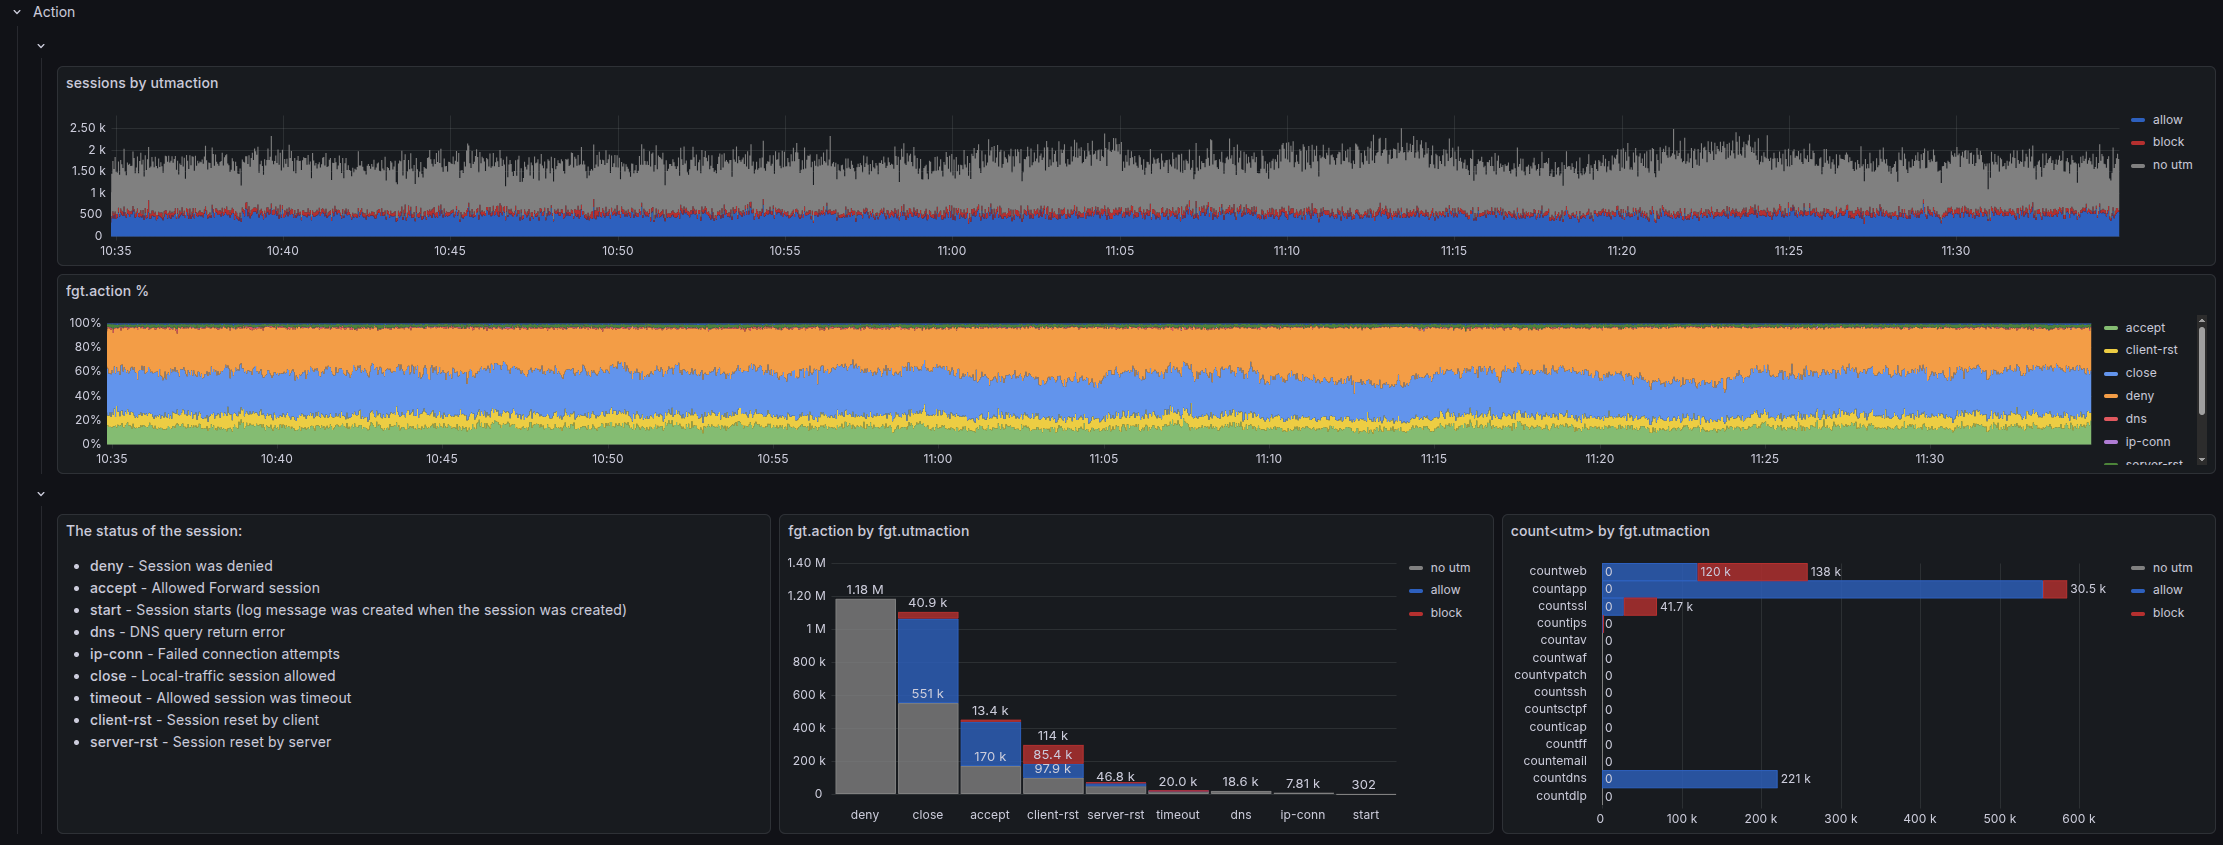
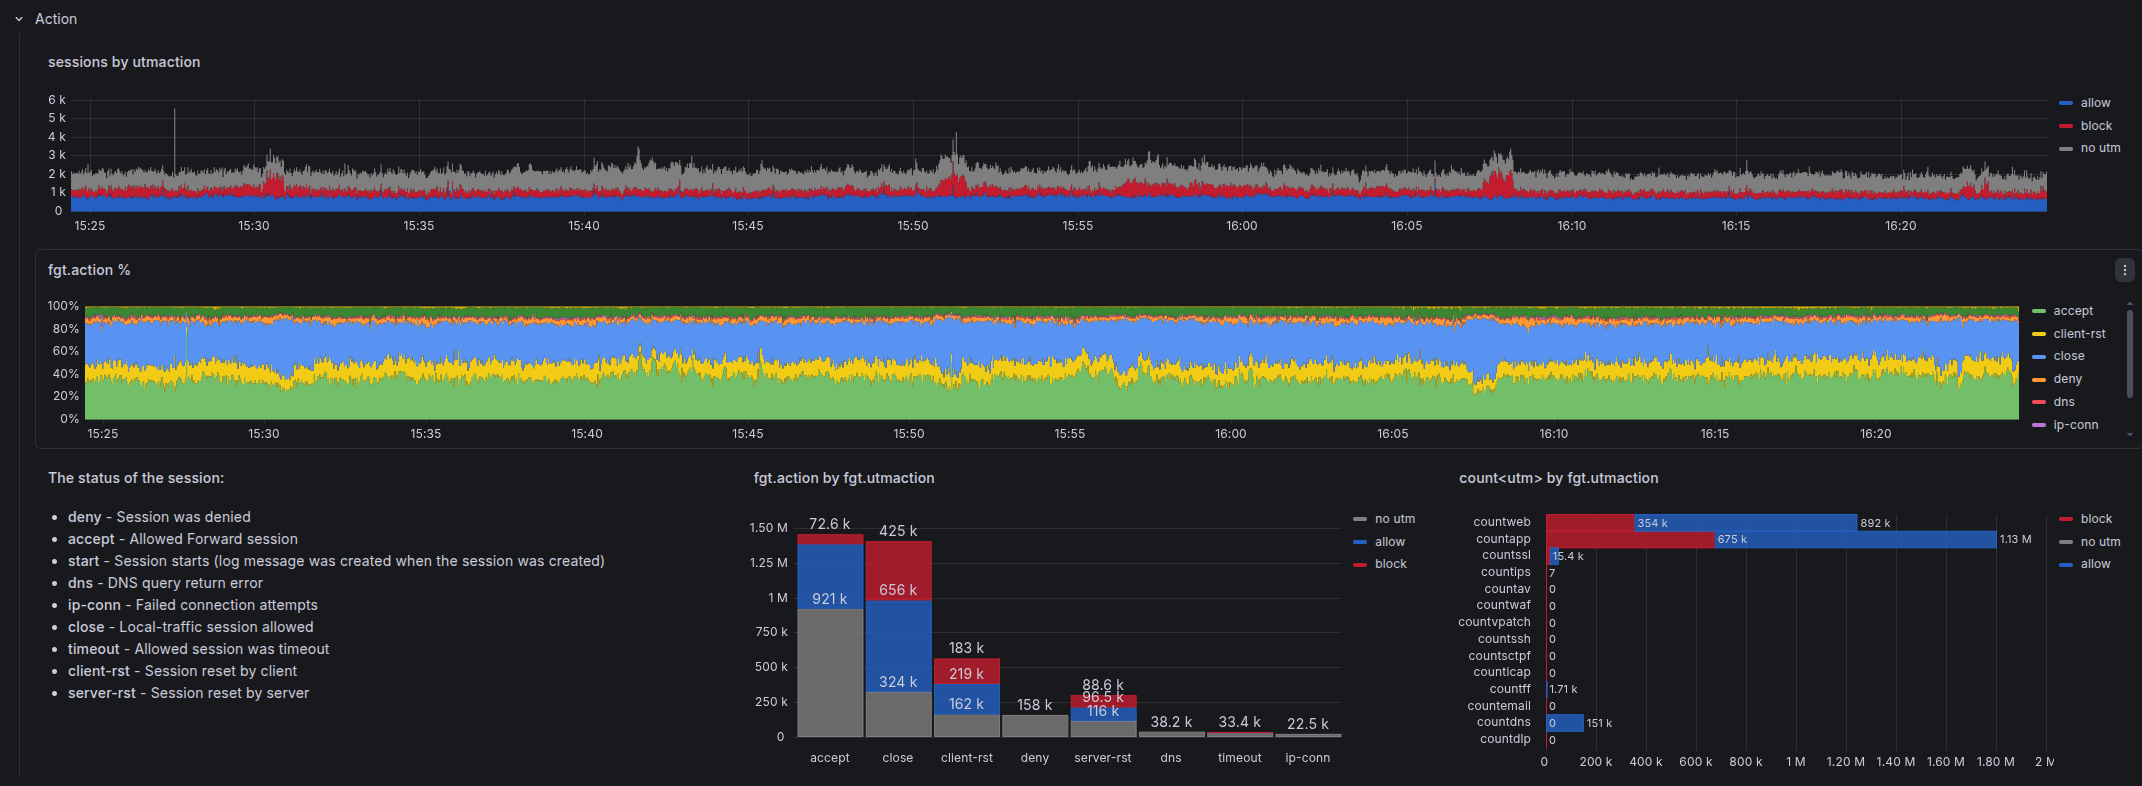
include images in dashboard guide

diff --git a/docs/src/dashboards/canvas.md b/docs/src/dashboards/canvas.md
@@ -20,19 +20,21 @@ The rest is just details.
 <div class="carousel-wrapper">
   <div class="main-image-container">
     <img id="mainImage" src="../../assets/dashboards/making_of/draft1.jpeg" alt="Main draft">
-    <button class="nav-btn prev" onclick="navigate(-1)">❮</button>
-    <button class="nav-btn next" onclick="navigate(1)">❯</button>
   </div>
-  
-  <div class="thumbnails">
-    <img src="../../assets/dashboards/making_of/draft1.jpeg" class="thumb active" onclick="showImage(0)">
-    <img src="../../assets/dashboards/making_of/draft2.jpeg" class="thumb" onclick="showImage(1)">
-    <img src="../../assets/dashboards/making_of/draft3.jpeg" class="thumb" onclick="showImage(2)">
-    <img src="../../assets/dashboards/making_of/draft4.jpeg" class="thumb" onclick="showImage(3)">
-    <img src="../../assets/dashboards/making_of/draft5.jpeg" class="thumb" onclick="showImage(4)">
-    <img src="../../assets/dashboards/making_of/draft6.jpeg" class="thumb" onclick="showImage(5)">
-    <img src="../../assets/dashboards/making_of/draft7.jpeg" class="thumb" onclick="showImage(6)">
-    <img src="../../assets/dashboards/making_of/draft8.jpeg" class="thumb" onclick="showImage(7)">
+
+  <div class="filmstrip">
+    <button class="nav-btn" onclick="navigate(-1)">❮</button>
+    <div class="thumb-track" id="thumbTrack">
+      <img src="../../assets/dashboards/making_of/draft1.jpeg" class="thumb active" onclick="showImage(0)">
+      <img src="../../assets/dashboards/making_of/draft2.jpeg" class="thumb" onclick="showImage(1)">
+      <img src="../../assets/dashboards/making_of/draft3.jpeg" class="thumb" onclick="showImage(2)">
+      <img src="../../assets/dashboards/making_of/draft4.jpeg" class="thumb" onclick="showImage(3)">
+      <img src="../../assets/dashboards/making_of/draft5.jpeg" class="thumb" onclick="showImage(4)">
+      <img src="../../assets/dashboards/making_of/draft6.jpeg" class="thumb" onclick="showImage(5)">
+      <img src="../../assets/dashboards/making_of/draft7.jpeg" class="thumb" onclick="showImage(6)">
+      <img src="../../assets/dashboards/making_of/draft8.jpeg" class="thumb" onclick="showImage(7)">
+    </div>
+    <button class="nav-btn" onclick="navigate(1)">❯</button>
   </div>
 </div>
 
@@ -43,7 +45,6 @@ The rest is just details.
 }
 
 .main-image-container {
-  position: relative;
   width: 100%;
   margin-bottom: 1rem;
 }
@@ -55,10 +56,14 @@ The rest is just details.
   border-radius: 8px;
 }
 
+.filmstrip {
+  display: flex;
+  align-items: center;
+  gap: 8px;
+}
+
 .nav-btn {
-  position: absolute;
-  top: 50%;
-  transform: translateY(-50%);
+  flex-shrink: 0;
   background: rgba(0, 0, 0, 0.6);
   color: white;
   border: none;
@@ -73,23 +78,23 @@ The rest is just details.
   background: rgba(0, 0, 0, 0.9);
 }
 
-.prev { left: 10px; }
-.next { right: 10px; }
-
-.thumbnails {
-  display: grid;
-  grid-template-columns: repeat(auto-fit, minmax(100px, 1fr));
+.thumb-track {
+  flex: 1;
+  overflow: hidden;
+  display: flex;
   gap: 10px;
+  scroll-behavior: smooth;
 }
 
 .thumb {
-  width: 100%;
-  height: 80px;
+  flex-shrink: 0;
+  width: 100px;
+  height: 70px;
   object-fit: cover;
   cursor: pointer;
   border-radius: 4px;
   opacity: 0.6;
-  transition: opacity 0.3s, transform 0.2s;
+  transition: opacity 0.3s, transform 0.2s, border-color 0.2s;
   border: 3px solid transparent;
 }
 
@@ -121,20 +126,22 @@ let currentIndex = 0;
 function showImage(index) {
   currentIndex = index;
   document.getElementById('mainImage').src = images[index];
-  
-  document.querySelectorAll('.thumb').forEach((thumb, i) => {
-    thumb.classList.toggle('active', i === index);
-  });
+
+  const thumbs = document.querySelectorAll('.thumb');
+  thumbs.forEach((thumb, i) => thumb.classList.toggle('active', i === index));
+
+  const track = document.getElementById('thumbTrack');
+  const active = thumbs[index];
+  if (active) {
+    const scrollTarget = active.offsetLeft - (track.offsetWidth / 2) + (active.offsetWidth / 2);
+    track.scrollTo({ left: scrollTarget, behavior: 'smooth' });
+  }
 }
 
 function navigate(direction) {
-  currentIndex += direction;
-  if (currentIndex < 0) currentIndex = images.length - 1;
-  if (currentIndex >= images.length) currentIndex = 0;
-  showImage(currentIndex);
+  showImage((currentIndex + direction + images.length) % images.length);
 }
 
-// Keyboard navigation
 document.addEventListener('keydown', (e) => {
   if (e.key === 'ArrowLeft') navigate(-1);
   if (e.key === 'ArrowRight') navigate(1);

diff --git a/docs/src/dashboards/guide/index.md b/docs/src/dashboards/guide/index.md
@@ -26,7 +26,7 @@ Both vendors share the same set of dashboards, each with a distinct purpose:
 
 Each dashboard includes a navigation bar that links to related dashboards within the same vendor dataset. Navigation links are **tag-based** — each link resolves dynamically to all dashboards sharing a specific set of Grafana tags, so new dashboards added with the right tags appear automatically.
 
-![Navigation](../../assets/dashboards/guide/[Grafana] Fortigate Navigation Filters.png)
+![Navigation](../../assets/dashboards/guide/[Grafana] Navigation.png)
 
 | Nav Link | FortiGate dashboards | PAN-OS dashboards |
 |----------|---------------------|-------------------|
@@ -36,6 +36,8 @@ Each dashboard includes a navigation bar that links to related dashboards within
 | Event | System [FortiOS], SSL VPN [FortiOS] | — |
 
 ## Variables & Filters
+
+![Navigation](../../assets/dashboards/guide/[Grafana] Filters.png)
 
 All dashboard filters are exposed at the top of the page, allowing you to slice and dice the data as needed. Variables are ordered hierarchically — selecting a firewall narrows down vdom/vsys options, which narrows down subtypes, and so on.
 
@@ -65,11 +67,12 @@ datasource
 | `action` | `fgt.action` | `panos.action` | Populated from data |
 | `Logsql` | — | — | Raw [LogsQL](https://docs.victoriametrics.com/victorialogs/logsql/) injection — applied after all other filters |
 
+
 !!! note "FortiGate extras"
     FortiGate **Traffic** dashboards have two additional variables not present in PAN-OS:
 
     - `policytype` (filters by `fgt.policytype`)
-    - `crscore`, a toggle unique to the **UTM** dashboard that applies a risk score threshold filter.
+    - `crscore`, a toggle that applies a risk score threshold filter.
 
 !!! tip "Advanced Filtering"
     The `Logsql` variable lets you inject raw LogsQL into every query. Use it for complex filters that aren't covered by the standard variables, such as:
@@ -78,6 +81,8 @@ datasource
     ```
 
 ## Base Query Shell
+
+![Base Query Shell](../../assets/dashboards/guide/[Grafana] Filters & Base Query.png)
 
 All panels in a dashboard share a common base query structure. It always has three parts:
 
@@ -117,6 +122,8 @@ _stream:{<stream filters>}
 
 ### Top-level Tabs: Direction
 
+![Header](../../assets/dashboards/guide/[Grafana] Fortigate Tabs.png)
+
 We segment the analysis by **`network.direction`** — tabs across the top represent different traffic directions:
 
 - **Outbound** — Traffic initiated from internal networks going out
@@ -125,8 +132,6 @@ We segment the analysis by **`network.direction`** — tabs across the top repre
 - **External** — Traffic between external networks (rare but possible)
 
 The segmentation matters: an attack originating from the internet is completely different from an internal host generating suspicious traffic.
-
-![Header](../../assets/dashboards/guide/[Grafana] Fortigate Header.png)
 
 ### Sub Tabs — Traffic Dashboard: Metrics
 
@@ -144,6 +149,14 @@ The **UTM** (FortiGate) and **Threat** (Palo Alto) dashboards split by **subtype
 
 - A **summary** tab — aggregated view across all subtypes. *Only Palo Alto*
 - A **dynamic per-subtype** tab — automatically adapts to whatever subtypes are present in your data
+
+=== "FortiGate"
+
+    ![UTM Subtabs](../../assets/dashboards/guide/[Grafana] UTM Subtabs.png)
+
+=== "PAN-OS"
+
+    ![Threat Subtabs](../../assets/dashboards/guide/[Grafana] Threat Subtabs.png)
 
 ## Panel Hierarchy
 
@@ -188,7 +201,7 @@ The UTM (FortiGate) and Threat (PAN-OS) dashboards share the same top rows (Metr
 |-----|-------|
 | Metrics | Always visible |
 | Subtype | Always visible |
-| Rule | Always visible (collapsed by default) |
+| Rule | Always visible |
 | Geo | Always visible |
 | Threat ID \| Threat Category \| Misc | Always visible |
 | Source \| Destination | Always visible |
@@ -212,6 +225,14 @@ For *Traffic*, action has vendor-specific nuance — each vendor models policy d
 
 For vendor-specific action visualizations, action values, and color coding: [FortiGate](fortigate.md#action) · [Palo Alto](paloalto.md#action)
 
+=== "FortiGate"
+
+    ![Action](../../assets/dashboards/guide/[Grafana] Fortigate Action.png)
+
+=== "PAN-OS"
+
+    ![Action](../../assets/dashboards/guide/[Grafana] PANOS Action.png)
+
 ## Source | Destination
 
 We dig further into the most elemental dimensions of a network connection: Source and Destination.
@@ -223,6 +244,14 @@ We explore its broadest dimensions: IP, User, Device.
 - **Bottom row** — advanced metrics: `unique count of destination IP per source IP`
 
 For vendor-specific views: [FortiGate](fortigate.md#source-destination) · [Palo Alto](paloalto.md#source-destination)
+
+=== "FortiGate"
+
+    ![Source Destination](../../assets/dashboards/guide/[Grafana] Fortigate Source Destination.png)
+
+=== "PAN-OS"
+
+    ![Source Destination](../../assets/dashboards/guide/[Grafana] PANOS Source Destination.png)
 
 ## Service | Application
 
@@ -259,3 +288,11 @@ Application visibility depth differs significantly between vendors:
 Palo Alto's deep packet inspection engine classifies applications with much richer metadata, while FortiGate provides name and category only.
 
 For vendor-specific visualizations: [FortiGate](fortigate.md#service-application) · [Palo Alto](paloalto.md#service-application)
+
+=== "FortiGate"
+
+    ![Application](../../assets/dashboards/guide/[Grafana] Fortigate Application.png)
+
+=== "PAN-OS"
+
+    ![Application](../../assets/dashboards/guide/[Grafana] PANOS Application.png)

diff --git a/docs/src/installation/ingest/elastic-agent.md b/docs/src/installation/ingest/elastic-agent.md
@@ -1,3 +1,7 @@
+---
+status: deprecated
+---
+
 # Elastic Agent
 
 !!! warning "DEPRECATED"

diff --git a/docs/src/installation/ingest/logstash.md b/docs/src/installation/ingest/logstash.md
@@ -1,3 +1,7 @@
+---
+status: deprecated
+---
+
 # Logstash
 
 !!! warning "DEPRECATED"

diff --git a/README.md b/README.md
@@ -1,4 +1,4 @@
-![FLASI Logo](docs/src/assets/logos/logo.jpeg)
+![FLASI Logo](docs/src/assets/logos/logo_small.jpeg)
 
 # FLASI — Firewall Log Analytics for Security Insights
 ## **The Best Analytics Platform for Firewall Logs**

diff --git a/docs/src/index.md b/docs/src/index.md
@@ -1,7 +1,7 @@
 # Home
 
 <div align="center">
-    <img src="assets/logos/logo_with_name_small.jpg" alt="FLASI" />
+    <img src="assets/logos/logo_small.jpg" alt="FLASI" />
 </div>
 
 Welcome to **FLASI**! 